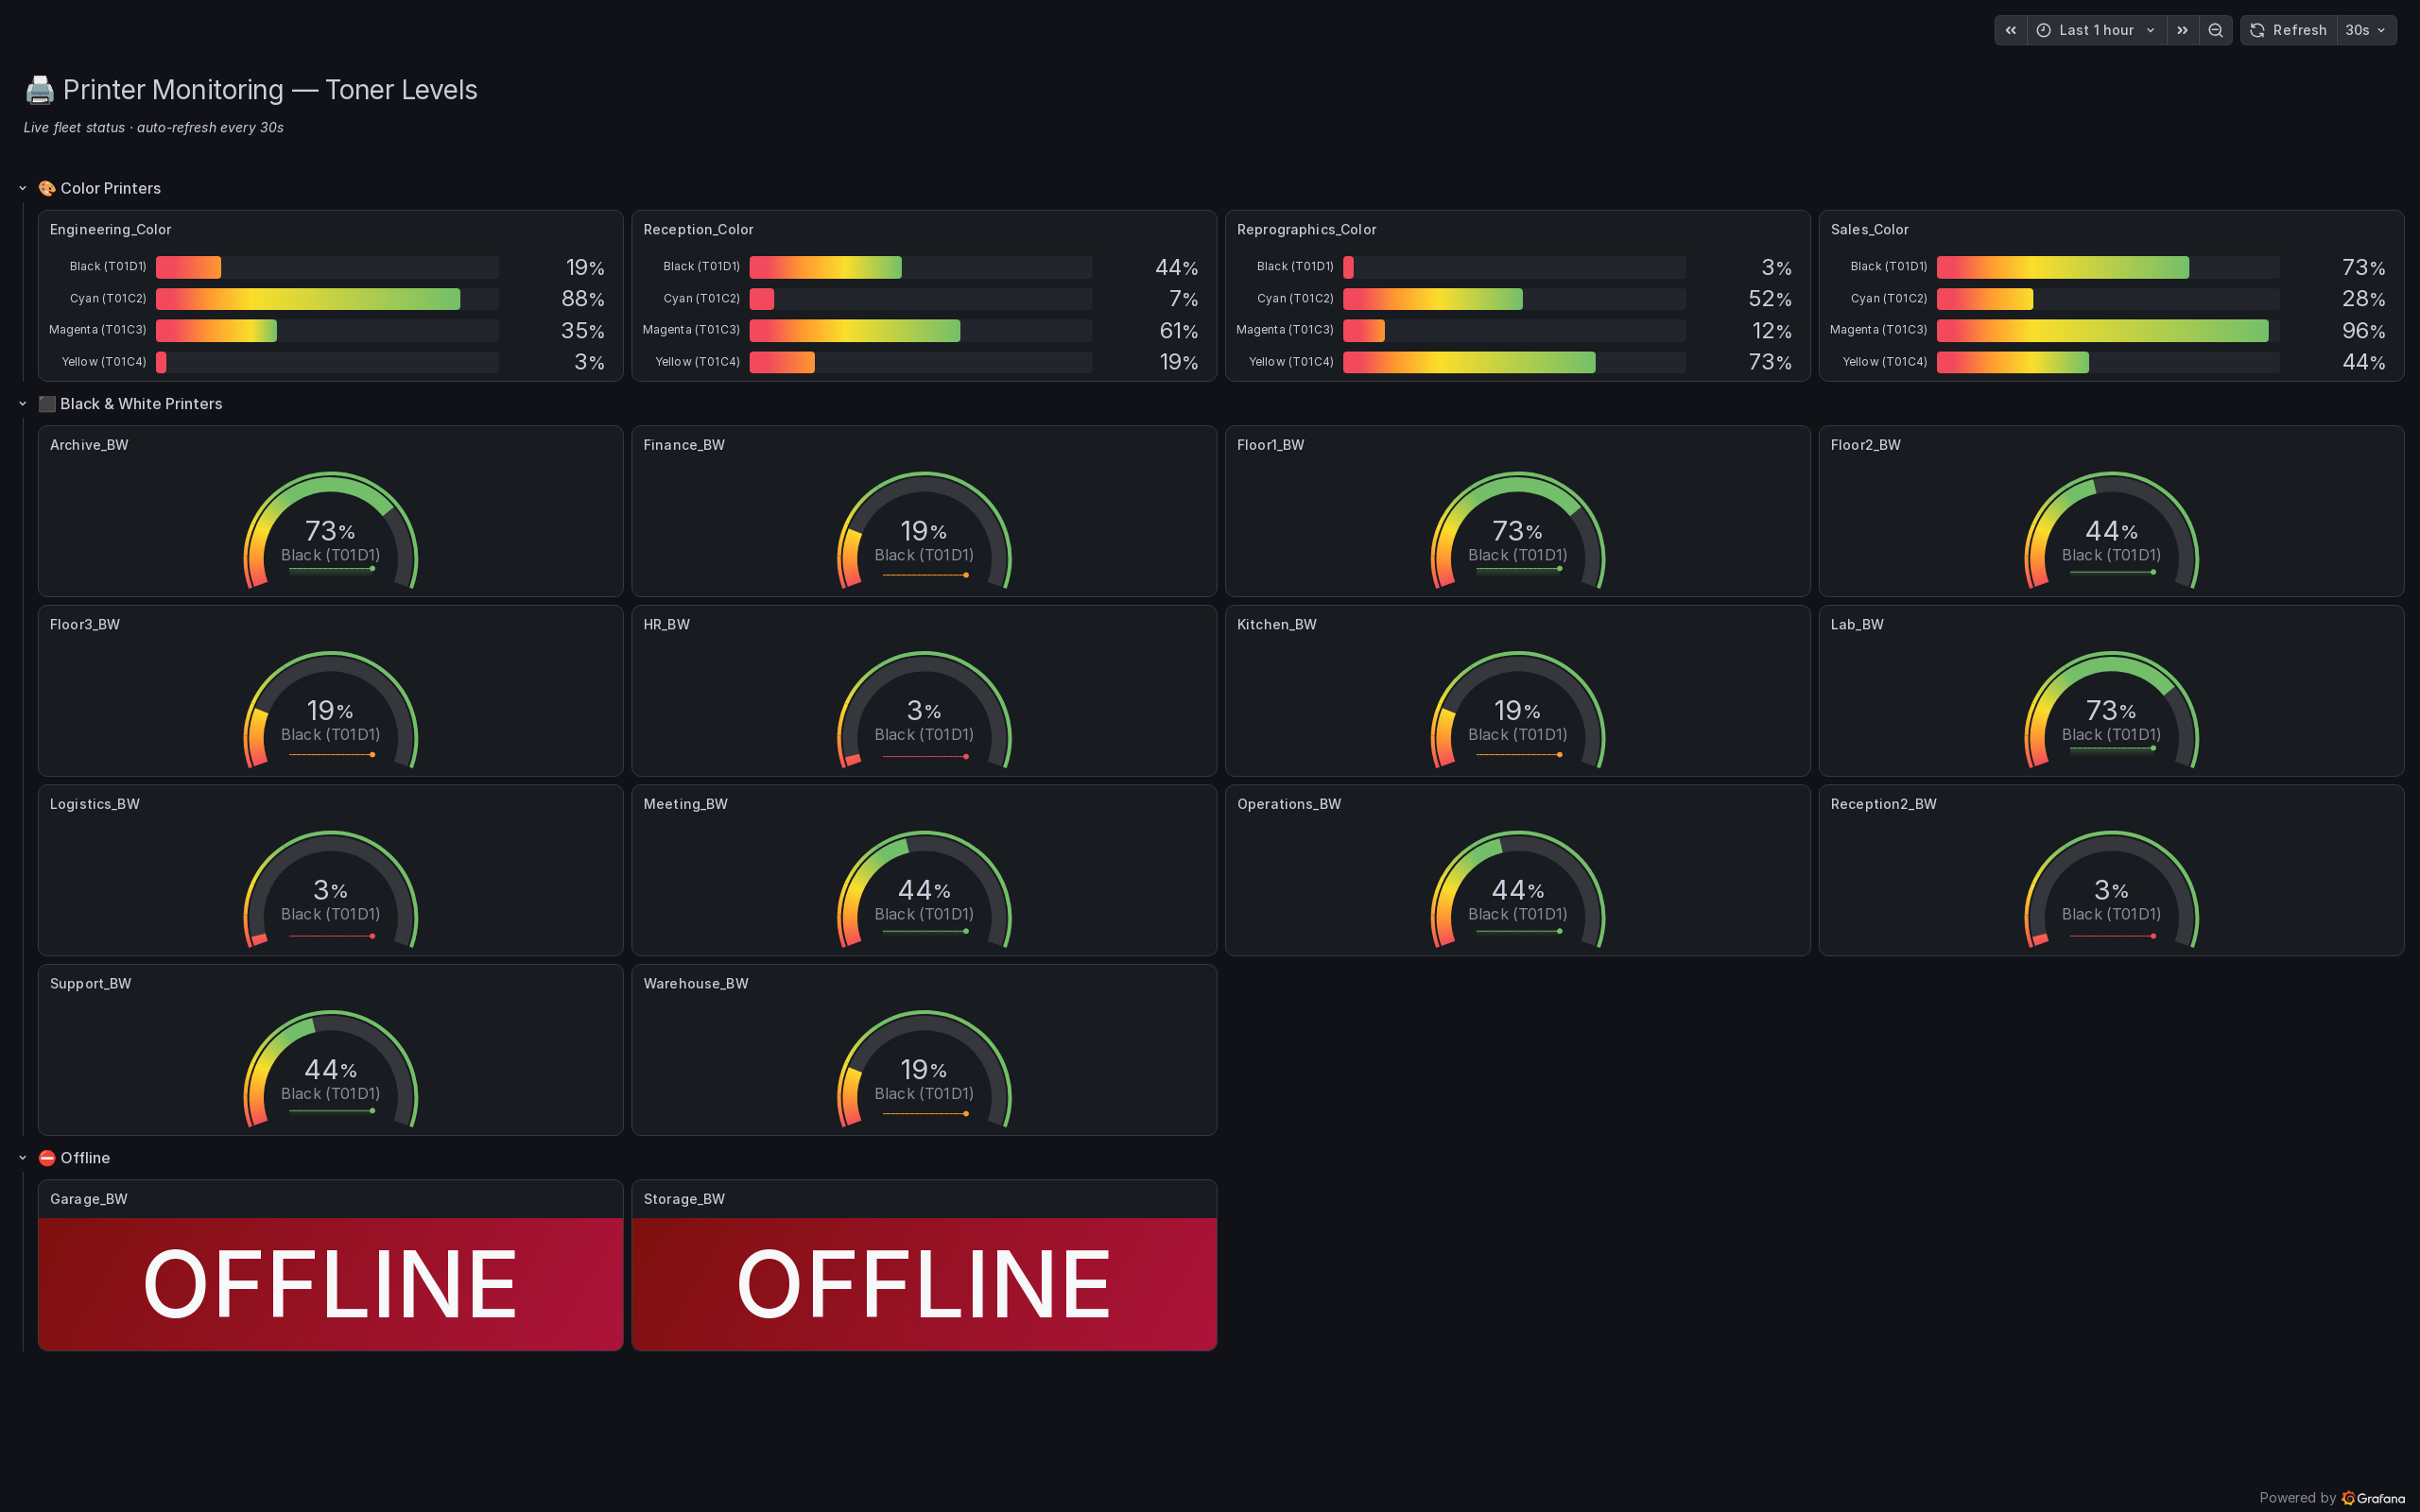
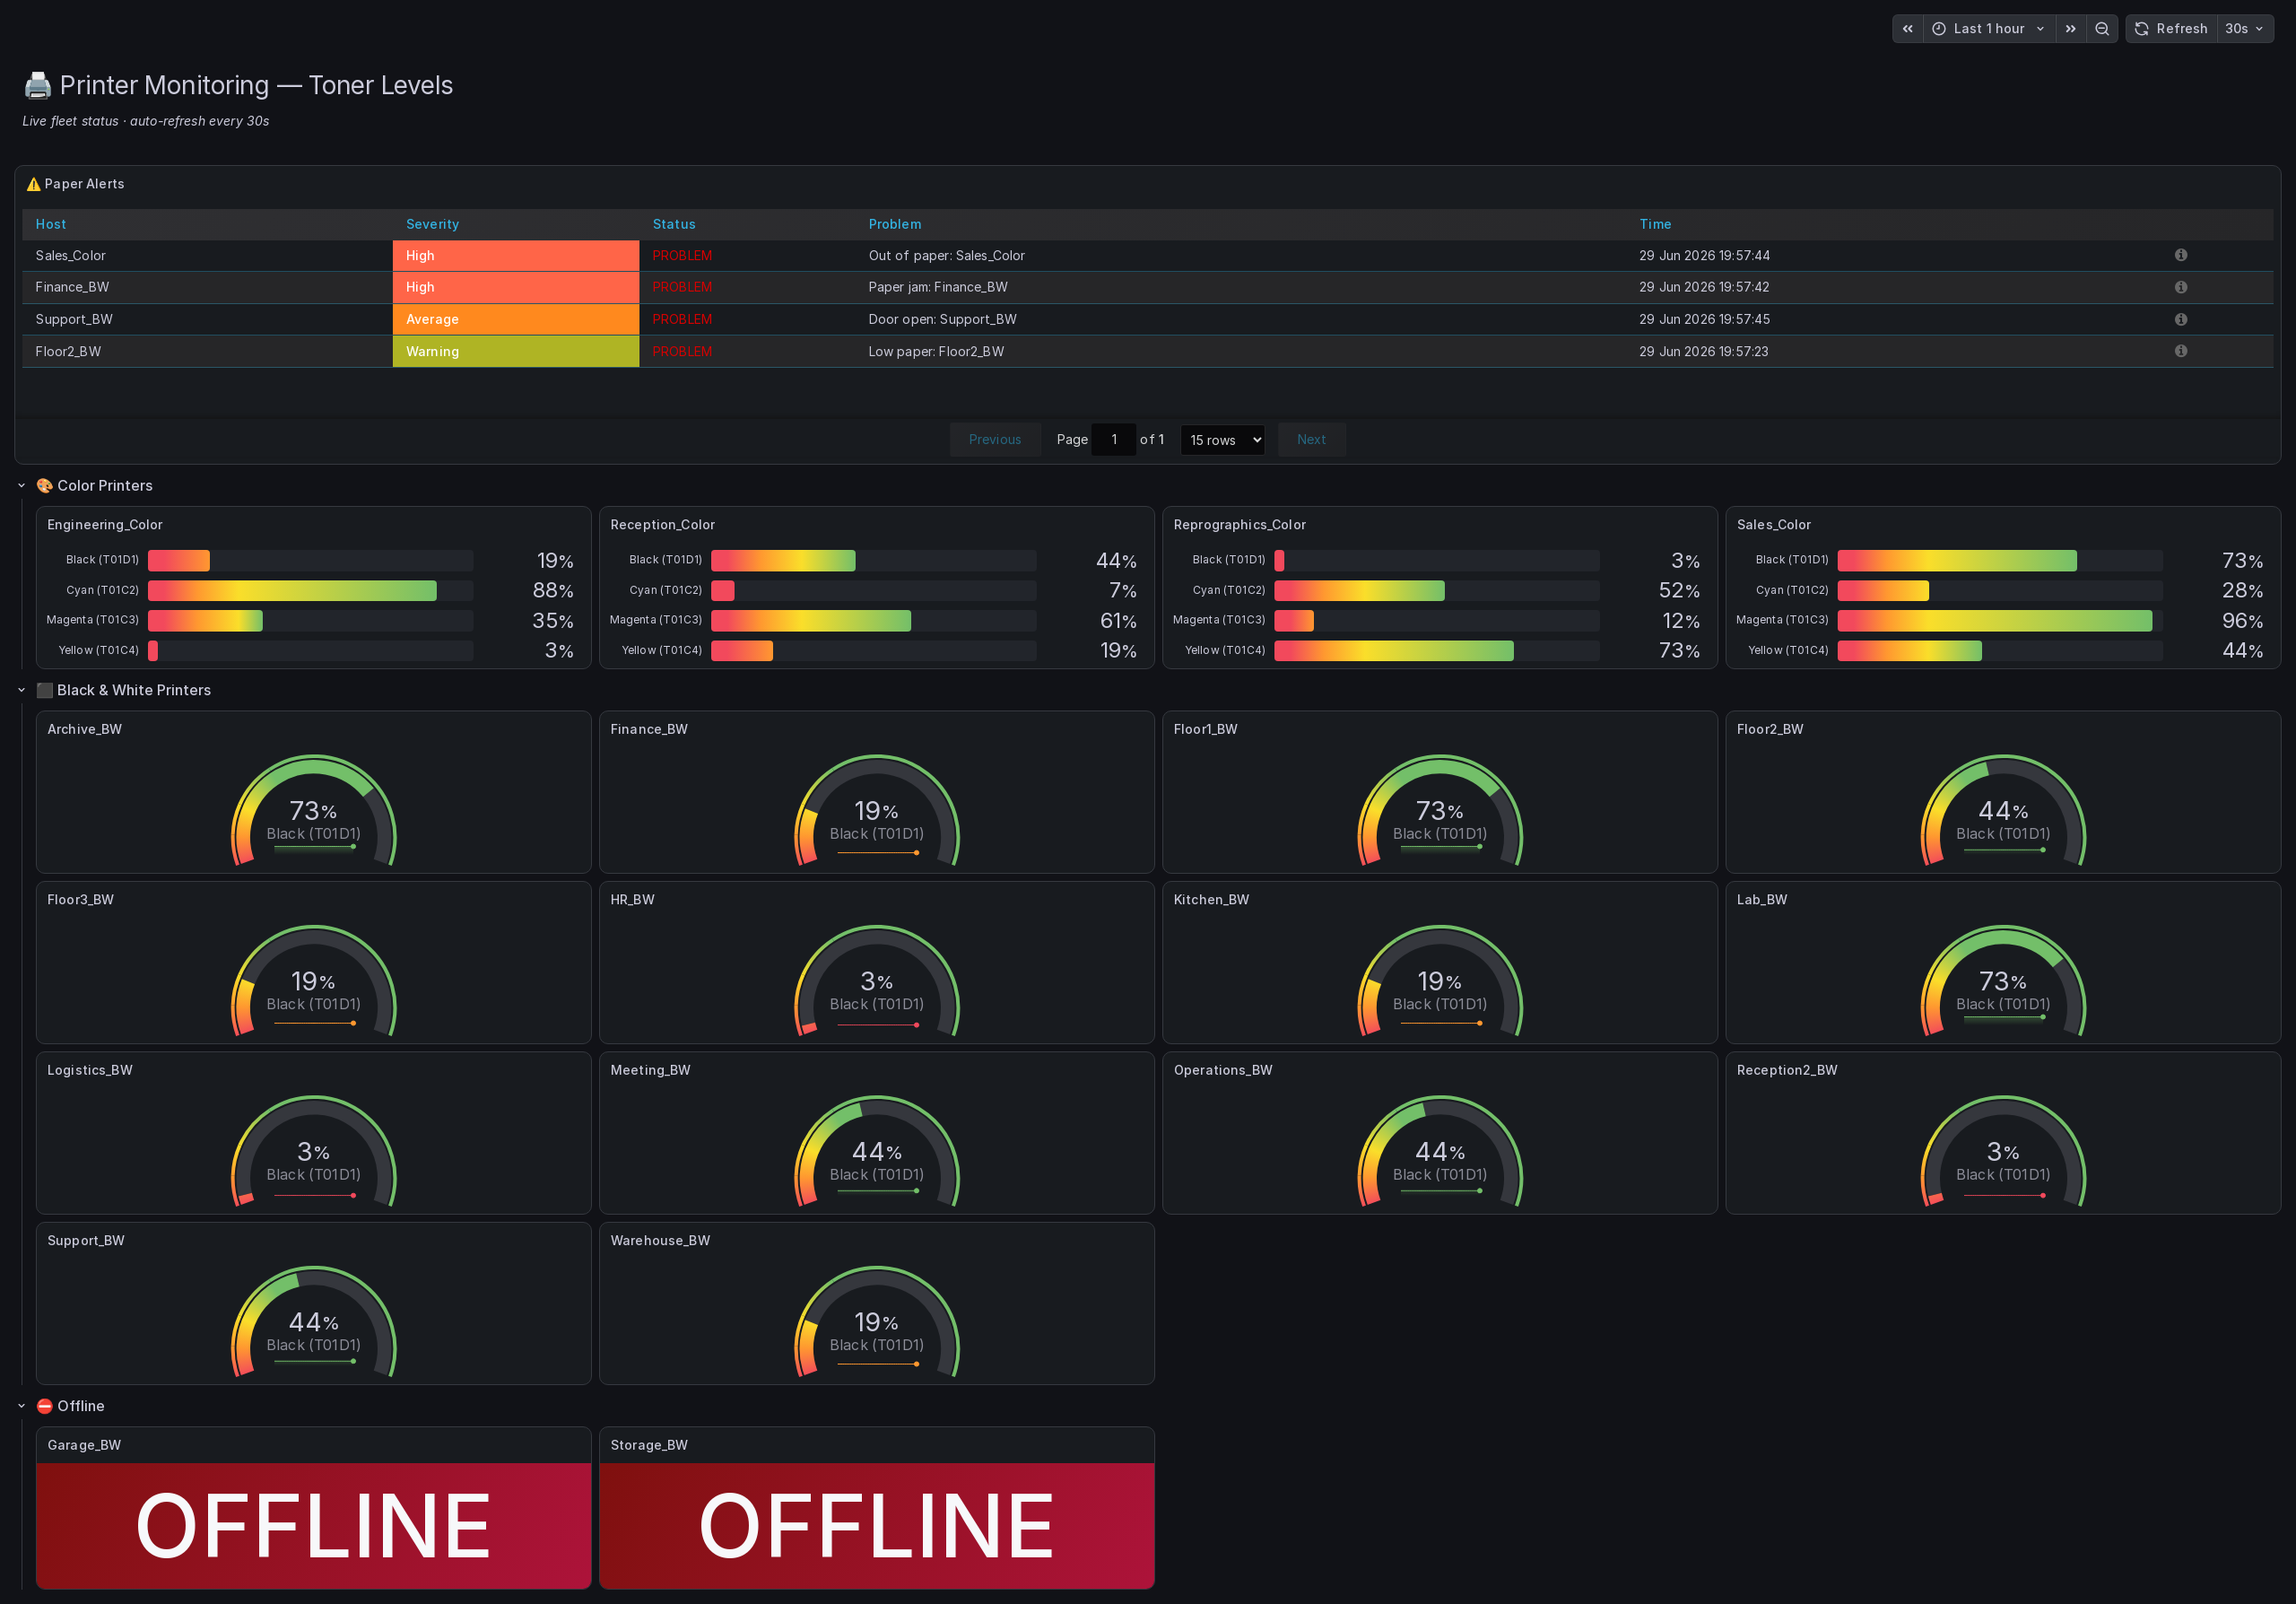
feat: add paper-status alerts (jam/out/door)
Poll hrPrinterDetectedErrorState (Host-Resources-MIB) alongside toner.
A JS preprocessing step decodes byte 0 to an integer and one trigger per
condition (bitand on the matching bit) raises a Zabbix problem for paper
jam, out-of-paper, low paper and door open. A Grafana "Zabbix Problems"
panel banner surfaces them at the top of the kiosk, empty when healthy.

Polling (not traps) keeps this consistent across printer models. Demo
states are keyed to the example fleet only, so a real inventory reports a
clean state and never shows a fabricated alert.

Also fix the dashboard classifier to count only "Toner Level:" items, so
the new error-state item no longer pushes B&W printers into the colour
branch or stops offline hosts reading as empty.

Claude-Session: https://claude.ai/code/session_018AKU9xuUwbMYvD5yLuQw8H

diff --git a/register_hosts.py b/register_hosts.py
@@ -31,6 +31,34 @@ SNMP_PORT = os.environ.get("MOCK_SNMP_PORT", "1161")
 # Zabbix item type / value-type magic numbers (Zabbix 6.4 API).
 ITEM_TYPE_SNMP = 20
 VALUE_TYPE_UNSIGNED = 3
+PREPROCESS_JAVASCRIPT = 21
+
+# Zabbix trigger severities.
+SEVERITY_WARNING = 2
+SEVERITY_AVERAGE = 3
+SEVERITY_HIGH = 4
+
+# Paper conditions decoded from hrPrinterDetectedErrorState byte 0:
+# (trigger label, bit mask, severity).
+PAPER_TRIGGERS = [
+    ("Paper jam", mib.PAPER_JAM, SEVERITY_HIGH),
+    ("Out of paper", mib.PAPER_OUT, SEVERITY_HIGH),
+    ("Door open", mib.DOOR_OPEN, SEVERITY_AVERAGE),
+    ("Low paper", mib.PAPER_LOW, SEVERITY_WARNING),
+]
+
+# JavaScript preprocessing: reduce the SNMP octet string to the integer value of
+# byte 0, tolerating the shapes net-snmp/Zabbix may return -- a "Hex-STRING:"
+# dump, bare hex pairs, or a raw ASCII byte (e.g. 0x40 -> "@").
+ERRORSTATE_DECODE_JS = (
+    "var v=(value||'').trim();"
+    "var m=v.match(/^Hex-STRING:\\s*([0-9A-Fa-f]{2})/);"
+    "if(m){return parseInt(m[1],16);}"
+    "v=v.replace(/^STRING:\\s*/,'');"
+    "var h=v.match(/^([0-9A-Fa-f]{2})(\\s|$)/);"
+    "if(h){return parseInt(h[1],16);}"
+    "return v.length?v.charCodeAt(0):0;"
+)
 
 
 def ensure_group(auth):
@@ -84,6 +112,38 @@ def create_toner_items(auth, printer, hostid, interfaceid):
         }, auth)
 
 
+def create_errorstate_item(auth, hostid, interfaceid):
+    """Create the SNMP item polling hrPrinterDetectedErrorState, decoding its
+    first byte to an integer so triggers can bitand the paper bits."""
+    zbx.zapi("item.create", {
+        "name": "Printer Error State",
+        "key_": "paper.errorstate",
+        "hostid": hostid,
+        "type": ITEM_TYPE_SNMP,
+        "snmp_oid": mib.HR_PRINTER_DETECTED_ERROR_STATE,
+        "value_type": VALUE_TYPE_UNSIGNED,
+        "delay": "30s",
+        "interfaceid": interfaceid,
+        "preprocessing": [{
+            "type": PREPROCESS_JAVASCRIPT,
+            "params": ERRORSTATE_DECODE_JS,
+            "error_handler": 0,
+            "error_handler_params": "",
+        }],
+    }, auth)
+
+
+def create_paper_triggers(auth, printer):
+    """Create one trigger per paper condition, firing when its bit is set."""
+    host = printer["name"]
+    for label, mask, severity in PAPER_TRIGGERS:
+        zbx.zapi("trigger.create", {
+            "description": f"{label}: {{HOST.NAME}}",
+            "expression": f"bitand(last(/{host}/paper.errorstate),{mask})={mask}",
+            "priority": severity,
+        }, auth)
+
+
 def main():
     zbx.load_env()
     user = os.environ.get("ZABBIX_API_USER", "Admin")
@@ -109,8 +169,10 @@ def main():
             print(f"  host only (offline): {name}")
         else:
             create_toner_items(auth, printer, hostid, interfaceid)
+            create_errorstate_item(auth, hostid, interfaceid)
+            create_paper_triggers(auth, printer)
             created += 1
-            print(f"  registered: {name} ({len(mib.supplies(printer))} toner items)")
+            print(f"  registered: {name} ({len(mib.supplies(printer))} toner items + paper alerts)")
 
     print(f"\nDone: {created} with items, {offline} offline hosts, {skipped} skipped.")
 

diff --git a/create_dashboard.py b/create_dashboard.py
@@ -69,7 +69,10 @@ host_items = {}
 for h in hosts:
     if h["host"] == "Zabbix server": continue
     items = zbx.zapi("item.get", {"hostids": h["hostid"], "output": ["name", "lastvalue"]}, zauth)
-    host_items[h["host"]] = items if items else []
+    # Classify on TONER items only. Hosts now also carry a "Printer Error State"
+    # item, so counting all items would push every B&W printer (1 toner + 1
+    # error item) into the Color branch and stop offline hosts reading as empty.
+    host_items[h["host"]] = [it for it in items if it["name"].startswith("Toner Level:")]
 
 # Delete old dashboards
 for d in requests.get(f"{GRAFANA_URL}/search?type=dash-db", auth=AUTH).json():
@@ -100,6 +103,38 @@ panels.append({
                 "content": "# 🖨️ Printer Monitoring — Toner Levels\n\n*Live fleet status · auto-refresh every 30s*"}
 })
 pid += 1; y += 3
+
+# Paper-alert banner: the Zabbix datasource's dedicated Problems panel, scoped to
+# the Printers group. It stays empty while the fleet is healthy and fills with
+# severity-coloured rows (paper jam / out of paper / low paper / door open) when
+# a trigger fires -- the at-a-glance status a wall TV needs. This panel renders
+# problems itself; the datasource routes to its problems handler only on an exact
+# string match, so queryType must be "5" (Problems) -- not a number, not a name.
+BANNER_H = 9
+panels.append({
+    "id": pid, "type": "alexanderzobnin-zabbix-triggers-panel", "datasource": DS,
+    "title": "⚠️ Paper Alerts",
+    "gridPos": {"h": BANNER_H, "w": 24, "x": 0, "y": y},
+    "targets": [{
+        "refId": "A",
+        "datasource": DS,
+        "queryType": "5",
+        "group": {"filter": "/.*/"},
+        "host": {"filter": "/.*/"},
+        "application": {"filter": ""},
+        "proxy": {"filter": ""},
+        "trigger": {"filter": "/Paper jam|Out of paper|Low paper|Door open/"},
+        "options": {"showProblems": "problems", "minSeverity": 0,
+                    "acknowledged": 0, "sortProblems": "severity", "limit": 1001}
+    }],
+    "options": {
+        "severityField": True, "statusField": True, "ackField": False,
+        "descriptionField": True, "showTags": False, "problemTimeline": False,
+        "highlightBackground": True, "sortProblems": "severity",
+        "fontSize": "150%", "pageSize": 15, "layout": "table"
+    }
+})
+pid += 1; y += BANNER_H
 
 GROUP_LABELS = {0: "🎨 Color Printers", 1: "⬛ Black & White Printers", 2: "⛔ Offline"}
 

diff --git a/printer_mib.py b/printer_mib.py
@@ -31,6 +31,18 @@ SUPPLIES_LEVEL = "1.3.6.1.2.1.43.11.1.1.9.1"  # prtMarkerSuppliesLevel
 # which is exactly the unit the Grafana gauges expect (0-100).
 MAX_CAPACITY = 100
 
+# --- hrPrinterDetectedErrorState (Host-Resources-MIB, RFC 2790) ---
+# A single bit-string column (indexed .1 for the printer device) where each bit
+# flags one error condition. Real Epson WorkForce Pro units populate it, and we
+# poll it (no SNMP traps), so the per-model trap quirks don't apply. We only use
+# byte 0, whose bits map to the masks below (bit 0 is the MSB of the octet).
+HR_PRINTER_DETECTED_ERROR_STATE = "1.3.6.1.2.1.25.3.5.1.2.1"
+
+PAPER_LOW = 0x80  # lowPaper(0)  -> byte 0 bit 7
+PAPER_OUT = 0x40  # noPaper(1)   -> byte 0 bit 6
+DOOR_OPEN = 0x08  # doorOpen(4)  -> byte 0 bit 3
+PAPER_JAM = 0x04  # jammed(5)    -> byte 0 bit 2
+
 # Cartridge codes per ink colour, mirroring the "<code>/<code>" pattern that
 # real Epson WorkForce units report (and that create_dashboard.py parses).
 CARTRIDGE_CODES = {
@@ -50,6 +62,18 @@ MONO_SUPPLIES = ["Black"]
 # inventory should not carry a fake status).
 OFFLINE_DEMO = {"Garage_BW", "Storage_BW"}
 
+# Demo-only: a fixed hrPrinterDetectedErrorState byte per printer so the alert
+# banner has something to show without real hardware. Keyed by the EXAMPLE
+# fleet names on purpose: a real inventory (printers.json) won't match, so real
+# hosts report a clean 0x00 and only show genuine paper errors. Same rule as
+# OFFLINE_DEMO -- never bake a fake status into the real inventory.
+ERROR_STATE_DEMO = {
+    "Finance_BW": PAPER_JAM,
+    "Sales_Color": PAPER_OUT,
+    "Floor2_BW": PAPER_LOW,
+    "Support_BW": DOOR_OPEN,
+}
+
 # Deterministic toner spread. Values are picked so the fleet hits every Grafana
 # threshold band (green >50, yellow 30-50, orange 15-30, red <15) — useful for
 # tuning the dashboard visuals without random noise between runs.
@@ -63,6 +87,11 @@ def community(name):
 
 def is_offline(name):
     return name in OFFLINE_DEMO
+
+
+def error_state_byte(name):
+    """Demo hrPrinterDetectedErrorState byte (0x00 = no error) for a printer."""
+    return ERROR_STATE_DEMO.get(name, 0x00)
 
 
 def supplies(printer):

diff --git a/generate_snmprec.py b/generate_snmprec.py
@@ -25,6 +25,7 @@ SOURCE = "printers.json" if os.path.exists("printers.json") else "printers.examp
 # snmprec value tags (ASN.1 / SNMP types snmpsim understands).
 TAG_INTEGER = 2
 TAG_OCTET_STRING = 4
+TAG_OCTET_STRING_HEX = "4x"  # OCTET STRING whose value is hex-encoded bytes
 TAG_OBJECT_ID = 6
 TAG_TIME_TICKS = 67
 
@@ -49,6 +50,12 @@ def build_records(printer, printer_index):
             (f"{mib.SUPPLIES_MAX_CAPACITY}.{idx}", TAG_INTEGER, mib.MAX_CAPACITY),
             (f"{mib.SUPPLIES_LEVEL}.{idx}", TAG_INTEGER, level),
         ]
+    # Device-level error state (paper jam / out / low / door) as a 1-byte hex
+    # bit field. 0x00 means no error; demo bytes come from printer_mib.
+    error_byte = mib.error_state_byte(printer["name"])
+    records.append(
+        (mib.HR_PRINTER_DETECTED_ERROR_STATE, TAG_OCTET_STRING_HEX, f"{error_byte:02x}")
+    )
     return records
 
 

diff --git a/README.md b/README.md
@@ -7,13 +7,13 @@
 ![License: MIT](https://img.shields.io/badge/License-MIT-green.svg)
 [![CI](https://github.com/bytedump/zabbix-printer-monitoring/actions/workflows/ci.yml/badge.svg)](https://github.com/bytedump/zabbix-printer-monitoring/actions/workflows/ci.yml)
 
-A Dockerized **Zabbix + Grafana** stack that centrally monitors the toner levels of a network printer fleet — collecting data over SNMP and auto-generating a TV-friendly **kiosk dashboard** through the Zabbix and Grafana APIs.
+A Dockerized **Zabbix + Grafana** stack that centrally monitors the toner levels **and paper status** (jams, out-of-paper, low paper, door open) of a network printer fleet — collecting data over SNMP and auto-generating a TV-friendly **kiosk dashboard** through the Zabbix and Grafana APIs.
 
 ## 📸 Preview
 
 ![Grafana kiosk dashboard](docs/dashboard.png)
 
-> Live toner levels for the whole fleet — colour printers as CMYK bars, B&W printers as gauges, and offline units flagged in red, grouped into sections. The whole dashboard is generated by `create_dashboard.py`.
+> A **paper-alert banner** tops the view — it stays empty while the fleet is healthy and fills with severity-coloured rows (paper jam, out of paper, low paper, door open) the moment a Zabbix trigger fires. Below it: live toner levels for the whole fleet — colour printers as CMYK bars, B&W printers as gauges, and offline units flagged in red, grouped into sections. The whole dashboard is generated by `create_dashboard.py`.
 
 ## 🧱 Stack
 
@@ -35,6 +35,7 @@ Zabbix (PostgreSQL · Server · Web) · Grafana · `alexanderzobnin-zabbix-datas
 The project uses the official Zabbix stack (PostgreSQL Database, Zabbix Server, Zabbix Web) and Grafana, integrated by the **alexanderzobnin-zabbix-datasource** plugin.
 
 - **Data Collection:** Zabbix discovers printer data using the SNMP protocol and the "Generic by SNMP" template, fetching toner levels from the standard `Printer-MIB`.
+- **Paper alerts:** Zabbix also polls `hrPrinterDetectedErrorState` (Host-Resources-MIB) — a single bit field that flags paper jams, out-of-paper, low paper and an open door. A JavaScript preprocessing step decodes the byte to an integer, and one trigger per condition (`bitand` on the matching bit) raises a Zabbix problem that the dashboard's alert banner shows. Polling (not SNMP traps) keeps this consistent across printer models.
 - **SNMP Versions:** Most network printers support SNMPv2c, but we detected that older Epson models require **SNMPv1** to avoid *Timeouts*.
 - **Visualization (Grafana):** A Python script consumes the Zabbix API to get the list of active printers and consumes the Grafana API to dynamically build the Dashboard.
 
@@ -122,9 +123,10 @@ python3 create_dashboard.py
 
 What the mock layer does:
 
-- **`generate_snmprec.py`** reads the inventory and writes one `mock/snmp/data/<name>.snmprec` per printer. Mono printers expose a single Black toner; colour printers expose CMYK. Toner levels are spread across every threshold band (green → red) so you can see each panel state.
-- **`register_hosts.py`** creates the Zabbix hosts and SNMP toner items through the API, so you skip the manual host creation in step 3. Re-running it is safe — existing hosts are skipped.
+- **`generate_snmprec.py`** reads the inventory and writes one `mock/snmp/data/<name>.snmprec` per printer. Mono printers expose a single Black toner; colour printers expose CMYK. Toner levels are spread across every threshold band (green → red) so you can see each panel state. Each printer also exposes an `hrPrinterDetectedErrorState` byte; a few demo printers are given a non-zero state (jam / out of paper / low paper / door open) so the alert banner has something to show.
+- **`register_hosts.py`** creates the Zabbix hosts, SNMP toner items, the error-state item (with its decode preprocessing) and the four paper triggers through the API, so you skip the manual host creation in step 3. Re-running it is safe — existing hosts are skipped.
 - A couple of printers (`Garage_BW`, `Storage_BW`) are left **offline** on purpose to exercise the dashboard's `OFFLINE` panel.
+- The demo paper states are keyed to the **example** fleet names only, so a real `printers.json` reports a clean state and the banner shows genuine paper errors — never a fabricated one.
 - **Inventory:** the tracked `printers.example.json` drives the demo. To monitor your real fleet, drop a git-ignored `printers.json` beside it — the scripts pick it up automatically.
 
 > The simulator listens on `snmp-sim:1161` inside the Compose network only — Zabbix polls it just like a real printer. To monitor real printers instead, follow [How to use](#-how-to-use) and point the hosts at their real IPs.